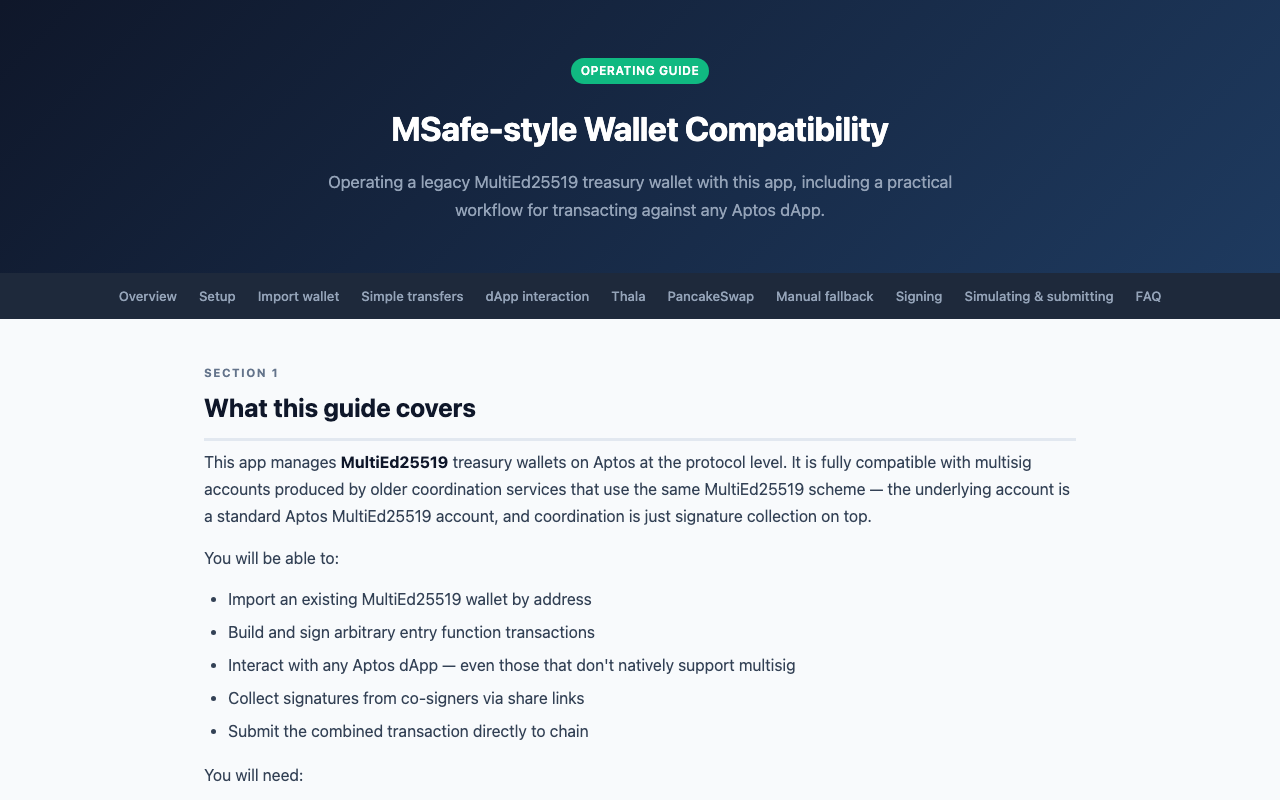
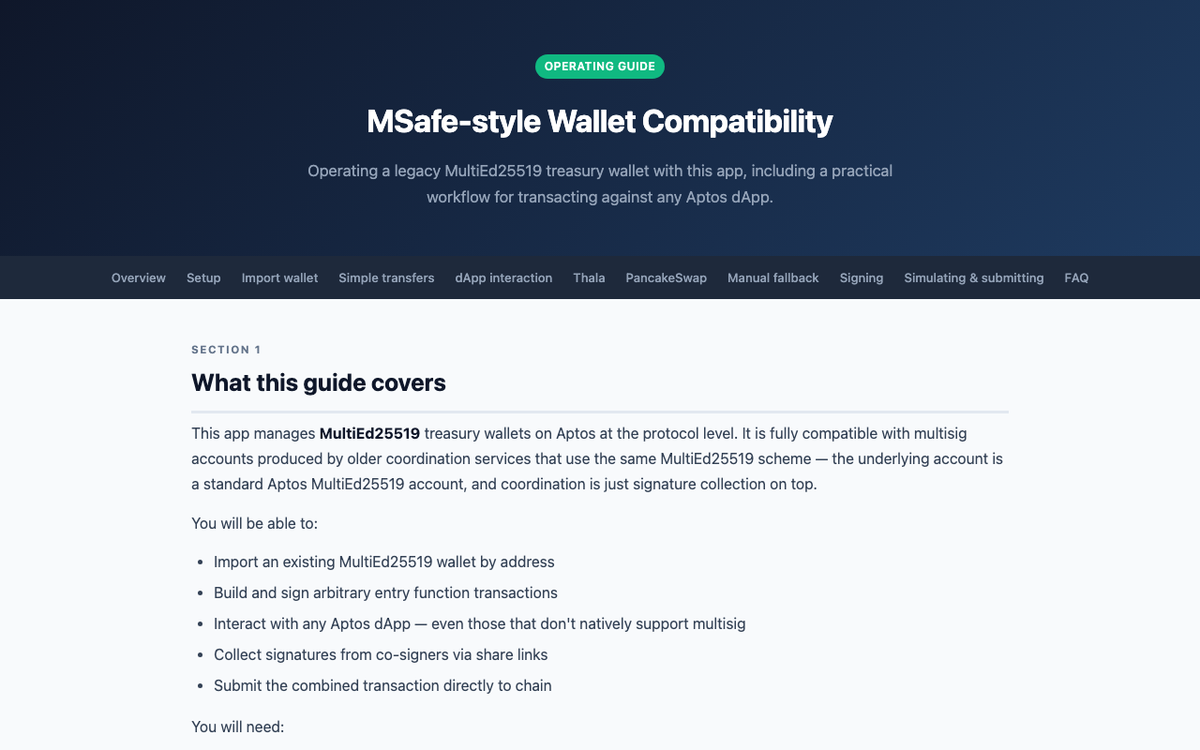
Address review: scope stats edits to frontmatter, localize stat labels
- sync-project-stats: restrict key replacement/insertion to the
  frontmatter block so lookalike lines in the MDX body are never
  touched, and fix the double-escaped .git suffix regex (never matched)
- Extract shared ProjectHeader (hero image, status/tech badges, stats
  row) used by both project routes instead of ~50 duplicated lines
- Localize stars/forks/last-push labels, status words, and date
  formatting on the locale route (new i18n keys for all five locales;
  formatDate takes a locale)
- Crop the three live screenshots to 1200x750 to match the posters'
  ratio; posters and screenshots scripts exit non-zero on failure;
  generate:assets now chains generate:posters (README notes the --force
  refresh requirement)
- Use camelCase fetchPriority now that the lockfile bumped React to 19
  (the lowercase spread silenced React 18 but warns on 19)

diff --git a/src/lib/i18n.ts b/src/lib/i18n.ts
@@ -52,6 +52,14 @@ export const translations: Record<Locale, Record<string, string>> = {
 		pageNotFoundDesc: "That page does not exist. Head back to the homepage.",
 		goHome: "Go home",
 		skipToContent: "Skip to content",
+		star: "star",
+		stars: "stars",
+		fork: "fork",
+		forks: "forks",
+		lastPush: "Last push",
+		statusActive: "active",
+		statusMaintained: "maintained",
+		statusArchived: "archived",
 		socialLinks: "Social links",
 		switchToMode: "Switch to {mode} mode",
 		light: "light",
@@ -80,6 +88,14 @@ export const translations: Record<Locale, Record<string, string>> = {
 		pageNotFoundDesc: "Esa página no existe. Vuelve a la página de inicio.",
 		goHome: "Ir al inicio",
 		skipToContent: "Saltar al contenido",
+		star: "estrella",
+		stars: "estrellas",
+		fork: "fork",
+		forks: "forks",
+		lastPush: "Último envío",
+		statusActive: "activo",
+		statusMaintained: "mantenido",
+		statusArchived: "archivado",
 		socialLinks: "Enlaces sociales",
 		switchToMode: "Cambiar a modo {mode}",
 		light: "claro",
@@ -108,6 +124,14 @@ export const translations: Record<Locale, Record<string, string>> = {
 		pageNotFoundDesc: "Cette page n'existe pas. Retournez à la page d'accueil.",
 		goHome: "Retour à l'accueil",
 		skipToContent: "Aller au contenu",
+		star: "étoile",
+		stars: "étoiles",
+		fork: "fork",
+		forks: "forks",
+		lastPush: "Dernier envoi",
+		statusActive: "actif",
+		statusMaintained: "maintenu",
+		statusArchived: "archivé",
 		socialLinks: "Liens sociaux",
 		switchToMode: "Passer en mode {mode}",
 		light: "clair",
@@ -136,6 +160,14 @@ export const translations: Record<Locale, Record<string, string>> = {
 		pageNotFoundDesc: "该页面不存在。返回首页。",
 		goHome: "返回首页",
 		skipToContent: "跳至内容",
+		star: "星标",
+		stars: "星标",
+		fork: "复刻",
+		forks: "复刻",
+		lastPush: "最后推送",
+		statusActive: "活跃",
+		statusMaintained: "维护中",
+		statusArchived: "已归档",
 		socialLinks: "社交链接",
 		switchToMode: "切换到{mode}模式",
 		light: "浅色",
@@ -164,6 +196,14 @@ export const translations: Record<Locale, Record<string, string>> = {
 		pageNotFoundDesc: "해당 페이지가 존재하지 않습니다. 홈페이지로 돌아가세요.",
 		goHome: "홈으로",
 		skipToContent: "콘텐츠로 건너뛰기",
+		star: "별",
+		stars: "별",
+		fork: "포크",
+		forks: "포크",
+		lastPush: "마지막 푸시",
+		statusActive: "활발",
+		statusMaintained: "유지 보수",
+		statusArchived: "보관됨",
 		socialLinks: "소셜 링크",
 		switchToMode: "{mode} 모드로 전환",
 		light: "라이트",

diff --git a/src/routes/projects/$slug.tsx b/src/routes/projects/$slug.tsx
@@ -1,7 +1,6 @@
 import { createFileRoute, Link, notFound } from "@tanstack/react-router";
 
-import Badge from "@/components/Badge";
-import { formatDate } from "@/lib/format";
+import ProjectHeader from "@/components/ProjectHeader";
 import { defaultLocale } from "@/lib/i18n";
 import { siteConfig } from "@/lib/site";
 import { fetchProject } from "@/server/content";
@@ -66,59 +65,7 @@ function ProjectPage() {
 					</Link>
 					<article className="prose">
 						<h1>{data.project.title}</h1>
-						{data.project.image ? (
-							<img
-								className="project-hero-image"
-								src={data.project.image}
-								alt={`${data.project.title} screenshot or poster`}
-								width={1200}
-								height={750}
-								// React 18 only recognizes the lowercase attribute; the camelCase
-								// prop logs a dev warning and the types reject the lowercase form.
-								{...{ fetchpriority: "high" }}
-								decoding="async"
-							/>
-						) : null}
-						<div className="card-meta">
-							{data.project.year ? <span>{data.project.year}</span> : null}
-							{data.project.role ? <span>{data.project.role}</span> : null}
-							{data.project.featured ? <Badge>Featured</Badge> : null}
-							{data.project.status ? (
-								<span className={`badge status-${data.project.status}`}>
-									{data.project.status}
-								</span>
-							) : null}
-						</div>
-						{data.project.tech && data.project.tech.length > 0 ? (
-							<div className="card-tech">
-								{data.project.tech.map((item) => (
-									<Badge key={item}>{item}</Badge>
-								))}
-							</div>
-						) : null}
-						{data.project.stars !== undefined ||
-						data.project.forks !== undefined ||
-						data.project.lastPush ? (
-							<div className="project-stats">
-								{data.project.stars !== undefined ? (
-									<span className="project-stat">
-										★ {data.project.stars} star
-										{data.project.stars === 1 ? "" : "s"}
-									</span>
-								) : null}
-								{data.project.forks !== undefined ? (
-									<span className="project-stat">
-										⑂ {data.project.forks} fork
-										{data.project.forks === 1 ? "" : "s"}
-									</span>
-								) : null}
-								{data.project.lastPush ? (
-									<span className="project-stat">
-										Last push {formatDate(data.project.lastPush)}
-									</span>
-								) : null}
-							</div>
-						) : null}
+						<ProjectHeader project={data.project} />
 						{/* biome-ignore lint/security/noDangerouslySetInnerHtml: content is local */}
 						<div dangerouslySetInnerHTML={{ __html: data.html }} />
 						{data.project.links.length > 0 ? (

diff --git a/src/routes/$locale/projects/$slug.tsx b/src/routes/$locale/projects/$slug.tsx
@@ -5,9 +5,8 @@ import {
 	redirect,
 } from "@tanstack/react-router";
 
-import Badge from "@/components/Badge";
 import NotFound from "@/components/NotFound";
-import { formatDate } from "@/lib/format";
+import ProjectHeader from "@/components/ProjectHeader";
 import { isValidLocale, type Locale, t } from "@/lib/i18n";
 import { siteConfig } from "@/lib/site";
 import { fetchProject } from "@/server/content";
@@ -102,57 +101,7 @@ function ProjectPage() {
 					)}
 					<article className="prose">
 						<h1>{project.title}</h1>
-						{project.image ? (
-							<img
-								className="project-hero-image"
-								src={project.image}
-								alt={`${project.title} screenshot or poster`}
-								width={1200}
-								height={750}
-								// React 18 only recognizes the lowercase attribute; the camelCase
-								// prop logs a dev warning and the types reject the lowercase form.
-								{...{ fetchpriority: "high" }}
-								decoding="async"
-							/>
-						) : null}
-						<div className="card-meta">
-							{project.year ? <span>{project.year}</span> : null}
-							{project.role ? <span>{project.role}</span> : null}
-							{project.featured ? <Badge>Featured</Badge> : null}
-							{project.status ? (
-								<span className={`badge status-${project.status}`}>
-									{project.status}
-								</span>
-							) : null}
-						</div>
-						{project.tech && project.tech.length > 0 ? (
-							<div className="card-tech">
-								{project.tech.map((item) => (
-									<Badge key={item}>{item}</Badge>
-								))}
-							</div>
-						) : null}
-						{project.stars !== undefined ||
-						project.forks !== undefined ||
-						project.lastPush ? (
-							<div className="project-stats">
-								{project.stars !== undefined ? (
-									<span className="project-stat">
-										★ {project.stars} star{project.stars === 1 ? "" : "s"}
-									</span>
-								) : null}
-								{project.forks !== undefined ? (
-									<span className="project-stat">
-										⑂ {project.forks} fork{project.forks === 1 ? "" : "s"}
-									</span>
-								) : null}
-								{project.lastPush ? (
-									<span className="project-stat">
-										Last push {formatDate(project.lastPush)}
-									</span>
-								) : null}
-							</div>
-						) : null}
+						<ProjectHeader project={project} locale={locale} />
 						{/* biome-ignore lint/security/noDangerouslySetInnerHtml: content is local */}
 						<div dangerouslySetInnerHTML={{ __html: html }} />
 						{project.links.length > 0 ? (

diff --git a/src/components/ProjectHeader.tsx b/src/components/ProjectHeader.tsx
@@ -1,0 +1,85 @@
+import { memo } from "react";
+
+import Badge from "@/components/Badge";
+import type { Project, ProjectStatus } from "@/lib/content-i18n";
+import { formatDate } from "@/lib/format";
+import { defaultLocale, type Locale, t } from "@/lib/i18n";
+
+const STATUS_KEYS: Record<ProjectStatus, string> = {
+	active: "statusActive",
+	maintained: "statusMaintained",
+	archived: "statusArchived",
+};
+
+type ProjectHeaderProps = {
+	project: Project;
+	locale?: Locale;
+};
+
+/**
+ * Hero image, meta line, tech badges, and GitHub stats shown above a
+ * project's body. Shared by the default-locale and localized routes.
+ */
+export default memo(function ProjectHeader({
+	project,
+	locale = defaultLocale,
+}: ProjectHeaderProps) {
+	const hasStats =
+		project.stars !== undefined ||
+		project.forks !== undefined ||
+		project.lastPush !== undefined;
+
+	return (
+		<>
+			{project.image ? (
+				<img
+					className="project-hero-image"
+					src={project.image}
+					alt={`${project.title} screenshot or poster`}
+					width={1200}
+					height={750}
+					fetchPriority="high"
+					decoding="async"
+				/>
+			) : null}
+			<div className="card-meta">
+				{project.year ? <span>{project.year}</span> : null}
+				{project.role ? <span>{project.role}</span> : null}
+				{project.featured ? <Badge>Featured</Badge> : null}
+				{project.status ? (
+					<span className={`badge status-${project.status}`}>
+						{t(locale, STATUS_KEYS[project.status])}
+					</span>
+				) : null}
+			</div>
+			{project.tech && project.tech.length > 0 ? (
+				<div className="card-tech">
+					{project.tech.map((item) => (
+						<Badge key={item}>{item}</Badge>
+					))}
+				</div>
+			) : null}
+			{hasStats ? (
+				<div className="project-stats">
+					{project.stars !== undefined ? (
+						<span className="project-stat">
+							★ {project.stars}{" "}
+							{t(locale, project.stars === 1 ? "star" : "stars")}
+						</span>
+					) : null}
+					{project.forks !== undefined ? (
+						<span className="project-stat">
+							⑂ {project.forks}{" "}
+							{t(locale, project.forks === 1 ? "fork" : "forks")}
+						</span>
+					) : null}
+					{project.lastPush ? (
+						<span className="project-stat">
+							{t(locale, "lastPush")} {formatDate(project.lastPush, locale)}
+						</span>
+					) : null}
+				</div>
+			) : null}
+		</>
+	);
+});

diff --git a/src/lib/format.ts b/src/lib/format.ts
@@ -1,10 +1,23 @@
-export function formatDate(value: string): string {
+import { defaultLocale, type Locale } from "./i18n";
+
+const INTL_LOCALES: Record<Locale, string> = {
+	en: "en-US",
+	es: "es-ES",
+	fr: "fr-FR",
+	zh: "zh-Hans",
+	ko: "ko-KR",
+};
+
+export function formatDate(
+	value: string,
+	locale: Locale = defaultLocale,
+): string {
 	const date = new Date(value);
 	if (Number.isNaN(date.getTime())) {
 		return value;
 	}
 
-	return new Intl.DateTimeFormat("en-US", {
+	return new Intl.DateTimeFormat(INTL_LOCALES[locale] ?? "en-US", {
 		year: "numeric",
 		month: "short",
 		day: "2-digit",

diff --git a/src/routes/$locale/index.tsx b/src/routes/$locale/index.tsx
@@ -84,9 +84,7 @@ function HomePage() {
 								className="hero-image"
 								width={420}
 								height={520}
-								// React 18 only recognizes the lowercase attribute; the camelCase
-								// prop logs a dev warning and the types reject the lowercase form.
-								{...{ fetchpriority: "high" }}
+								fetchPriority="high"
 								decoding="async"
 							/>
 						</picture>

diff --git a/src/routes/index.tsx b/src/routes/index.tsx
@@ -71,9 +71,7 @@ function HomePage() {
 								className="hero-image"
 								width={420}
 								height={520}
-								// React 18 only recognizes the lowercase attribute; the camelCase
-								// prop logs a dev warning and the types reject the lowercase form.
-								{...{ fetchpriority: "high" }}
+								fetchPriority="high"
 								decoding="async"
 							/>
 						</picture>

diff --git a/README.md b/README.md
@@ -98,6 +98,8 @@ links:
 Project images: projects with a live demo get a real screenshot captured
 into `public/images/projects/<slug>.png`; the rest get a generated poster
 (`bun run generate:posters`, reads `tech` and `summary` from frontmatter).
+The poster script skips existing images — rerun with `--force` after
+changing a project's title, summary, or tech so its poster refreshes.
 
 ## Project Structure
 
